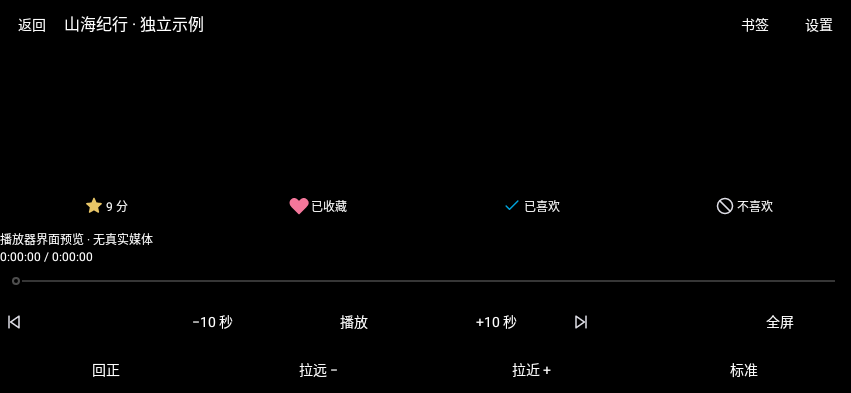
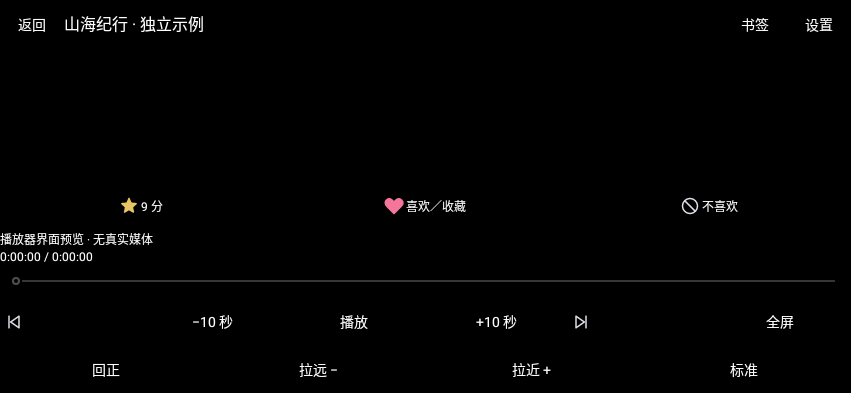
Unify likes with favorites as requested for 0.4.9

diff --git a/tests/test_player_personal.py b/tests/test_player_personal.py
@@ -14,13 +14,13 @@ def spin(app,seconds=.1):
     loop=QEventLoop();QTimer.singleShot(round(seconds*1000),loop.quit);loop.exec();app.processEvents()
 
 
-def test_flags_are_independent_exclusive_and_persistent(library):
+def test_likes_are_favorites_exclusive_and_persistent(library):
     work=add_work(library,'Preferences')
     library.update_personal(work,favorite=True,liked=True,rating=8)
     library.update_personal(work,disliked=True)
-    saved=library.work(work);assert saved['favorite']==1 and saved['liked']==0 and saved['disliked']==1 and saved['rating']==8
+    saved=library.work(work);assert saved['favorite']==0 and saved['liked']==0 and saved['disliked']==1 and saved['rating']==8
     library.update_personal(work,liked=True);assert library.work(work)['disliked']==0
-    library.update_personal(work,liked=False,rating=None);assert library.work(work)['favorite']==1
+    library.update_personal(work,liked=False,rating=None);assert library.work(work)['favorite']==0
     with pytest.raises(ValueError):library.update_personal(work,liked=True,disliked=True)
     other=Library(library.directory);assert other.work(work)['liked']==0 and other.work(work)['rating'] is None;other.close()
 
@@ -29,9 +29,9 @@ def test_old_database_and_old_backup_migrate_without_changing_original(tmp_path)
     folder=tmp_path/'old';lib=Library(folder);work=add_work(lib,'Old favorite');lib.update_personal(work,favorite=True,rating=7);lib.close()
     database=folder/'library.sqlite';db=sqlite3.connect(database);db.execute('ALTER TABLE works DROP COLUMN liked');db.commit();db.close()
     backup=tmp_path/'old-backup.sqlite';backup.write_bytes(database.read_bytes())
-    migrated=Library(folder);assert migrated.work(work)['favorite']==1 and migrated.work(work)['liked']==0
+    migrated=Library(folder);assert migrated.work(work)['favorite']==1 and migrated.work(work)['liked']==1
     migrated.update_personal(work,liked=True);restore_database(migrated,backup)
-    assert migrated.work(work)['rating']==7 and migrated.work(work)['liked']==0
+    assert migrated.work(work)['rating']==7 and migrated.work(work)['liked']==1
     original=sqlite3.connect(backup);assert 'liked' not in {row[1] for row in original.execute('PRAGMA table_info(works)')};original.close();migrated.close()
 
 
@@ -39,8 +39,8 @@ def test_playing_controls_save_without_restarting_video(qapp,library,video_facto
     source=video_factory('Player preferences.mp4','blue',10);library.import_folder(source.parent,'movie')
     file=library.query()[0]['files'][0];player=Player(library);player.open_file(file);spin(qapp,.7)
     session=player.session.id;assert player.media.playbackState()==QMediaPlayer.PlaybackState.PlayingState
-    player.like.click();player.positive.click();assert library.work(file['work_id'])['liked']==1
-    player.negative.click();work=library.work(file['work_id']);assert work['favorite']==1 and work['disliked']==1 and work['liked']==0
+    player.like.click();assert library.work(file['work_id'])['liked']==1
+    player.negative.click();work=library.work(file['work_id']);assert work['favorite']==0 and work['disliked']==1 and work['liked']==0
     def choose(value):
         def trigger():
             menu=QApplication.activePopupWidget();action=next(a for a in menu.actions() if a.text()==('清除评分' if value is None else f'{value} 分'));action.trigger();menu.close()
@@ -55,7 +55,21 @@ def test_failed_player_save_restores_buttons_and_success_clears_error(qapp,libra
     work=add_work(library,'Retry');player=Player(library);player.file=library.work(work)['files'][0];player.update_like(library.work(work))
     original=library.update_personal
     def fail(*args,**kwargs):raise ValueError('temporary database error')
-    monkeypatch.setattr(library,'update_personal',fail);player.positive.click()
-    assert library.work(work)['liked']==0 and not player.positive.isChecked() and '偏好未保存' in player.error.text()
-    monkeypatch.setattr(library,'update_personal',original);player.positive.click()
+    monkeypatch.setattr(library,'update_personal',fail);player.like.click()
+    assert library.work(work)['liked']==0 and not player.like.isChecked() and '偏好未保存' in player.error.text()
+    monkeypatch.setattr(library,'update_personal',original);player.like.click()
     assert library.work(work)['liked']==1 and '偏好未保存' not in player.error.text();player.close()
+
+
+def test_independent_legacy_preferences_merge_once_and_backup_stays_unchanged(tmp_path):
+    folder=tmp_path/'legacy';lib=Library(folder);positive=add_work(lib,'Legacy positive');negative=add_work(lib,'Legacy negative')
+    with lib.db:
+        lib.db.execute('UPDATE works SET favorite=0,liked=1,rating=8 WHERE id=?',(positive,))
+        lib.db.execute('UPDATE works SET favorite=1,liked=0,disliked=1 WHERE id=?',(negative,))
+        lib.db.execute("DELETE FROM settings WHERE key='personal_unified_v1'")
+    backup=tmp_path/'independent.sqlite';lib.backup(backup);lib.close()
+    lib=Library(folder);assert lib.work(positive)['favorite']==lib.work(positive)['liked']==1
+    assert lib.work(positive)['rating']==8 and lib.work(negative)['favorite']==0 and lib.work(negative)['disliked']==1
+    lib.update_personal(positive,favorite=False);lib.close();lib=Library(folder);assert lib.work(positive)['favorite']==0
+    restore_database(lib,backup);assert lib.work(positive)['favorite']==1 and lib.work(positive)['rating']==8
+    original=sqlite3.connect(backup);assert original.execute('SELECT favorite,liked FROM works WHERE id=?',(positive,)).fetchone()==(0,1);original.close();lib.close()

diff --git a/src/lumen/core.py b/src/lumen/core.py
@@ -209,6 +209,10 @@ class Library(CatalogActions):
         ''')
         if 'liked' not in {row['name'] for row in self.db.execute('PRAGMA table_info(works)')}:
             self.db.execute('ALTER TABLE works ADD COLUMN liked INTEGER NOT NULL DEFAULT 0 CHECK(liked IN (0,1))')
+        if not self.setting('personal_unified_v1',False):
+            with self.db:
+                self.db.execute('UPDATE works SET favorite=CASE WHEN disliked THEN 0 ELSE MAX(favorite,liked) END,liked=CASE WHEN disliked THEN 0 ELSE MAX(favorite,liked) END')
+                self.db.execute('INSERT OR REPLACE INTO settings VALUES (?,?)',('personal_unified_v1','true'))
         self.db.commit()
 
     def close(self):
@@ -228,6 +232,7 @@ class Library(CatalogActions):
             raise ValueError('媒体不存在')
         item = dict(row)
         item['metadata'] = actor_defaults(json.loads(item['metadata']), item['kind'])
+        item['liked'] = item['favorite']
         item['locked'] = json.loads(item['locked'])
         item['files'] = [dict(r) for r in self.db.execute('SELECT * FROM files WHERE work_id=? ORDER BY season,episode,path', (work_id,))]
         for file in item['files']:
@@ -243,10 +248,14 @@ class Library(CatalogActions):
             raise ValueError('无效个人字段')
         if 'rating' in fields and fields['rating'] is not None and (type(fields['rating']) is not int or not 1 <= fields['rating'] <= 10):
             raise ValueError('个人评分须为 1–10 整数或空')
-        if 'liked' in fields and type(fields['liked']) is not bool:raise ValueError('喜欢标记须为布尔值')
-        if fields.get('liked') and fields.get('disliked'):raise ValueError('喜欢与不喜欢不能同时选择')
-        if fields.get('liked'):fields['disliked']=False
-        elif fields.get('disliked'):fields['liked']=False
+        if 'liked' in fields:
+            if type(fields['liked']) is not bool:raise ValueError('喜欢标记须为布尔值')
+            if 'favorite' in fields and bool(fields['favorite'])!=fields['liked']:raise ValueError('喜欢与收藏是同一状态')
+            fields['favorite']=fields['liked']
+        if fields.get('favorite') and fields.get('disliked'):raise ValueError('喜欢 / 收藏与不喜欢不能同时选择')
+        if 'favorite' in fields:fields['liked']=bool(fields['favorite'])
+        if fields.get('favorite'):fields['disliked']=False
+        elif fields.get('disliked'):fields.update(favorite=False,liked=False)
         with self.db:
             self.db.execute('UPDATE works SET ' + ','.join(f'{key}=?' for key in fields) + ' WHERE id=?', (*fields.values(), work_id))
 
@@ -268,9 +277,9 @@ class Library(CatalogActions):
             self.db.execute('UPDATE sources SET work_id=? WHERE work_id=?', (target_id, source_id))
             self.db.execute('UPDATE works SET metadata=?,rating=?,favorite=?,watchlist=?,disliked=?,liked=?,discovered=?,thumbnail=? WHERE id=?',
                 (json.dumps(merged, ensure_ascii=False), target['rating'] if target['rating'] is not None else source['rating'],
-                 max(target['favorite'],source['favorite']),max(target['watchlist'],source['watchlist']),
-                 (target if target['liked'] or target['disliked'] else source)['disliked'],
-                 (target if target['liked'] or target['disliked'] else source)['liked'],
+                 (target if target['favorite'] or target['disliked'] else source)['favorite'],max(target['watchlist'],source['watchlist']),
+                 (target if target['favorite'] or target['disliked'] else source)['disliked'],
+                 (target if target['favorite'] or target['disliked'] else source)['favorite'],
                  min([d for d in [target['discovered'],source['discovered']] if d] or [None]),target['thumbnail'] or source['thumbnail'],target_id))
             self.db.execute('UPDATE name_keys SET work_id=? WHERE work_id=?', (target_id,source_id))
             self.db.execute('UPDATE external_ids SET work_id=? WHERE work_id=?', (target_id,source_id))
@@ -609,6 +618,7 @@ class Library(CatalogActions):
         for row in rows:
             item = dict(row)
             item['metadata'] = actor_defaults(json.loads(item['metadata']), item['kind'])
+            item['liked'] = item['favorite']
             item['locked'] = json.loads(item['locked'])
             item['files'] = files.get(item['id'], [])
             for file in item['files']:
@@ -721,7 +731,7 @@ class Library(CatalogActions):
         weights = Counter()
         for w in all_items:
             rating = (w['rating'] - 5.5) * 3 if w['rating'] is not None else 0
-            strength = rating + w.get('liked',0) * 6 + w['favorite'] * 4 + w['watchlist'] * 2 - w['disliked'] * 20 + min(w['watched'] / 3600, 1)
+            strength = rating + w['favorite'] * 4 + w['watchlist'] * 2 - w['disliked'] * 20 + min(w['watched'] / 3600, 1)
             features = ['标签:' + t for t in w['metadata'].get('tags', [])]
             features += ['演员:' + a['name'] for a in w['metadata'].get('actors', []) if a.get('gender') == 'female']
             for feature in set(features):

diff --git a/android/app/src/test/java/net/lumen/media/PlayerPersonalTest.java b/android/app/src/test/java/net/lumen/media/PlayerPersonalTest.java
@@ -34,12 +34,11 @@ public class PlayerPersonalTest {
         JSONObject canonical=new JSONObject("{\"favorite\":0,\"liked\":0,\"disliked\":0,\"rating\":null,\"watchlist\":0}");
         try(MockWebServer server=new MockWebServer();ActivityController<PlayerActivity> lifecycle=Robolectric.buildActivity(PlayerActivity.class).create()){
             server.setDispatcher(new Dispatcher(){public MockResponse dispatch(RecordedRequest request){try{
-                assertEquals("/api/works/7/personal",request.getPath());assertEquals("Bearer abcdefghijklmnopqrstuvwxyz123456",request.getHeader("Authorization"));JSONObject fields=new JSONObject(request.getBody().readUtf8());java.util.Iterator<String> keys=fields.keys();while(keys.hasNext()){String key=keys.next();Object value=fields.get(key);canonical.put(key,value instanceof Boolean?((Boolean)value?1:0):value);}if(fields.optBoolean("liked"))canonical.put("disliked",0);if(fields.optBoolean("disliked"))canonical.put("liked",0);
+                assertEquals("/api/works/7/personal",request.getPath());assertEquals("Bearer abcdefghijklmnopqrstuvwxyz123456",request.getHeader("Authorization"));JSONObject fields=new JSONObject(request.getBody().readUtf8());java.util.Iterator<String> keys=fields.keys();while(keys.hasNext()){String key=keys.next();Object value=fields.get(key);canonical.put(key,value instanceof Boolean?((Boolean)value?1:0):value);}if(fields.optBoolean("favorite")){canonical.put("disliked",0);canonical.put("liked",1);}if(fields.optBoolean("disliked")){canonical.put("liked",0);canonical.put("favorite",0);}
                 return new MockResponse().setBody(new JSONObject().put("ok",true).put("personal",canonical).toString());
             }catch(Exception e){return new MockResponse().setResponseCode(500);}}});server.start();PlayerActivity activity=lifecycle.get();JSONObject work=build(activity,server);Object file=get(activity,"file");
             ((Button)get(activity,"personalFavorite")).performClick();waitFor(()->work.optInt("favorite")==1);
-            ((Button)get(activity,"personalLiked")).performClick();waitFor(()->work.optInt("liked")==1);
-            ((Button)get(activity,"personalDisliked")).performClick();waitFor(()->work.optInt("disliked")==1);assertEquals(0,work.optInt("liked"));assertEquals(1,work.optInt("favorite"));
+            ((Button)get(activity,"personalDisliked")).performClick();waitFor(()->work.optInt("disliked")==1);assertEquals(0,work.optInt("liked"));assertEquals(0,work.optInt("favorite"));
             ((Button)get(activity,"personalRating")).performClick();AlertDialog score=org.robolectric.shadows.ShadowAlertDialog.getLatestAlertDialog();score.getListView().performItemClick(null,9,9);waitFor(()->work.optInt("rating")==9);
             ((Button)get(activity,"personalRating")).performClick();score=org.robolectric.shadows.ShadowAlertDialog.getLatestAlertDialog();score.getListView().performItemClick(null,0,0);waitFor(()->work.isNull("rating"));
             assertSame(file,get(activity,"file"));assertEquals("keep-session",get(activity,"session"));assertEquals(45000L,get(activity,"resumeMs"));assertNull(get(activity,"player"));
@@ -54,7 +53,7 @@ public class PlayerPersonalTest {
         CountDownLatch entered=new CountDownLatch(1),release=new CountDownLatch(1);
         try(MockWebServer server=new MockWebServer();ActivityController<PlayerActivity> lifecycle=Robolectric.buildActivity(PlayerActivity.class).create()){
             server.setDispatcher(new Dispatcher(){public MockResponse dispatch(RecordedRequest request){assertEquals("/api/works/7/personal",request.getPath());entered.countDown();try{release.await(4,TimeUnit.SECONDS);}catch(InterruptedException e){Thread.currentThread().interrupt();}return new MockResponse().setBody("{\"ok\":true,\"personal\":{\"favorite\":1,\"liked\":0,\"disliked\":0,\"rating\":null,\"watchlist\":0}}");}});server.start();PlayerActivity activity=lifecycle.get();JSONObject old=build(activity,server);((Button)get(activity,"personalFavorite")).performClick();assertTrue(entered.await(3,TimeUnit.SECONDS));
-            JSONObject next=new JSONObject().put("id",8).put("title","Next").put("favorite",0);put(activity,"work",next);put(activity,"file",new JSONObject().put("id",80));call(activity,"refreshPersonal");release.countDown();waitFor(()->old.optInt("favorite")==1);assertEquals(0,next.optInt("favorite"));assertEquals("收藏",((Button)get(activity,"personalFavorite")).getText().toString());
+            JSONObject next=new JSONObject().put("id",8).put("title","Next").put("favorite",0);put(activity,"work",next);put(activity,"file",new JSONObject().put("id",80));call(activity,"refreshPersonal");release.countDown();waitFor(()->old.optInt("favorite")==1);assertEquals(0,next.optInt("favorite"));assertEquals("喜欢／收藏",((Button)get(activity,"personalFavorite")).getText().toString());
         }finally{release.countDown();}
     }
 }

diff --git a/android/app/src/main/java/net/lumen/media/PlayerActivity.java b/android/app/src/main/java/net/lumen/media/PlayerActivity.java
@@ -59,7 +59,7 @@ public final class PlayerActivity extends Activity {
     private SeekBar seek;
     private TextView time;
     private Button pause,previousVideo,nextVideo;
-    private Button personalRating,personalFavorite,personalLiked,personalDisliked;
+    private Button personalRating,personalFavorite,personalDisliked;
     private boolean personalDialogOpen=false;
     private final java.util.Set<Long> personalPending=new java.util.HashSet<>();
     private boolean navigationPending=false;
@@ -163,8 +163,8 @@ public final class PlayerActivity extends Activity {
         bottomBar=new LinearLayout(this);bottomBar.setOrientation(LinearLayout.VERTICAL);bottomBar.setBackground(shade(false));
         LinearLayout personal=new LinearLayout(this);
         personalRating=button("评分",this::choosePersonalRating);personalRating.setContentDescription("我的评分");
-        personalFavorite=button("收藏",()->togglePersonal("favorite"));personalLiked=button("喜欢",()->togglePersonal("liked"));personalDisliked=button("不喜欢",()->togglePersonal("disliked"));
-        for(Button action:new Button[]{personalRating,personalFavorite,personalLiked,personalDisliked}){action.setTextSize(12);action.setPadding(dp(4),0,dp(4),0);action.setMinWidth(0);action.setMinimumWidth(0);action.setCompoundDrawablePadding(dp(2));action.addOnLayoutChangeListener((v,l,t,r,b,ol,ot,or,ob)->centerPersonalAction(action));personal.addView(action,new LinearLayout.LayoutParams(0,dp(48),1));}bottomBar.addView(personal);refreshPersonal();
+        personalFavorite=button("喜欢／收藏",()->togglePersonal("favorite"));personalDisliked=button("不喜欢",()->togglePersonal("disliked"));
+        for(Button action:new Button[]{personalRating,personalFavorite,personalDisliked}){action.setTextSize(12);action.setPadding(dp(4),0,dp(4),0);action.setMinWidth(0);action.setMinimumWidth(0);action.setCompoundDrawablePadding(dp(2));action.addOnLayoutChangeListener((v,l,t,r,b,ol,ot,or,ob)->centerPersonalAction(action));personal.addView(action,new LinearLayout.LayoutParams(0,dp(48),1));}bottomBar.addView(personal);refreshPersonal();
         status=label("正在连接视频…",12);status.setMaxLines(1);status.setEllipsize(TextUtils.TruncateAt.END);bottomBar.addView(status);
         time=label("0:00:00 / 0:00:00",12);bottomBar.addView(time);
         seek=new SeekBar(this);seek.setMax(10000);seek.setContentDescription("播放进度");
@@ -269,15 +269,14 @@ public final class PlayerActivity extends Activity {
         if(personalRating==null)return;
         boolean available=work!=null&&file!=null;
         boolean enabled=available&&!personalPending.contains(work.optLong("id"));
-        for(Button control:new Button[]{personalRating,personalFavorite,personalLiked,personalDisliked})control.setEnabled(enabled);
+        for(Button control:new Button[]{personalRating,personalFavorite,personalDisliked})control.setEnabled(enabled);
         if(!available)return;
         personalRating.setText(work.isNull("rating")?"评分":work.optInt("rating")+" 分");MediaStyle.icon(personalRating,"star",!work.isNull("rating"));
-        personalFavorite.setText(work.optInt("favorite")==1?"已收藏":"收藏");MediaStyle.icon(personalFavorite,"heart",work.optInt("favorite")==1);
-        personalLiked.setText(work.optInt("liked")==1?"已喜欢":"喜欢");MediaStyle.icon(personalLiked,"check",work.optInt("liked")==1);
+        personalFavorite.setText("喜欢／收藏");MediaStyle.icon(personalFavorite,"heart",work.optInt("favorite")==1);
         personalDisliked.setText("不喜欢");MediaStyle.icon(personalDisliked,"ban",work.optInt("disliked")==1);
-        for(Button control:new Button[]{personalRating,personalFavorite,personalLiked,personalDisliked}){control.setCompoundDrawablePadding(dp(2));centerPersonalAction(control);}
-        personalFavorite.setSelected(work.optInt("favorite")==1);personalLiked.setSelected(work.optInt("liked")==1);personalDisliked.setSelected(work.optInt("disliked")==1);
-        personalFavorite.setContentDescription(work.optInt("favorite")==1?"取消收藏":"收藏");personalLiked.setContentDescription(work.optInt("liked")==1?"取消喜欢":"喜欢");personalDisliked.setContentDescription(work.optInt("disliked")==1?"取消不喜欢":"不喜欢");
+        for(Button control:new Button[]{personalRating,personalFavorite,personalDisliked}){control.setCompoundDrawablePadding(dp(2));centerPersonalAction(control);}
+        personalFavorite.setSelected(work.optInt("favorite")==1);personalDisliked.setSelected(work.optInt("disliked")==1);
+        personalFavorite.setContentDescription(work.optInt("favorite")==1?"取消喜欢 / 收藏":"喜欢 / 收藏");personalDisliked.setContentDescription(work.optInt("disliked")==1?"取消不喜欢":"不喜欢");
     }
     private void togglePersonal(String field){
         if(work==null||file==null)return;

diff --git a/src/lumen/player.py b/src/lumen/player.py
@@ -148,11 +148,10 @@ class Player(QDialog):
         personal_row=QHBoxLayout()
         self.personal_rating=QPushButton();self.personal_rating.setObjectName('playerRating');self.personal_rating.setAccessibleName('我的评分');self.personal_rating.clicked.connect(self.choose_personal_rating)
         personal_row.addWidget(self.personal_rating)
-        self.like=QPushButton();self.like.setObjectName('playerFavorite');self.like.setCheckable(True);self.like.setAccessibleName('收藏');self.like.clicked.connect(self.toggle_like);personal_row.addWidget(self.like)
-        self.positive=QPushButton();self.positive.setObjectName('playerLiked');self.positive.setCheckable(True);self.positive.setAccessibleName('喜欢');self.positive.clicked.connect(lambda:self.save_personal({'liked':self.positive.isChecked()}));personal_row.addWidget(self.positive)
+        self.like=QPushButton();self.like.setObjectName('playerFavorite');self.like.setCheckable(True);self.like.setAccessibleName('喜欢 / 收藏');self.like.clicked.connect(self.toggle_like);personal_row.addWidget(self.like)
         self.negative=QPushButton();self.negative.setObjectName('playerDisliked');self.negative.setCheckable(True);self.negative.setAccessibleName('不喜欢');self.negative.clicked.connect(lambda:self.save_personal({'disliked':self.negative.isChecked()}));personal_row.addWidget(self.negative)
         personal_row.addStretch();bottom.insertLayout(0,personal_row)
-        for action_button in [self.personal_rating,self.like,self.positive,self.negative]:action_button.setEnabled(False)
+        for action_button in [self.personal_rating,self.like,self.negative]:action_button.setEnabled(False)
         self.mute = control(QStyle.StandardPixmap.SP_MediaVolume, '静音 / 恢复音量', self.toggle_mute)
         volume = self.volume = QSlider(Qt.Orientation.Horizontal)
         volume.setRange(0, 100)
@@ -391,11 +390,11 @@ class Player(QDialog):
 
     def update_like(self, work):
         from .components import icon
-        for control,key,name,color in [(self.like,'favorite','heart','#f4779b'),(self.positive,'liked','check','#65d3ed'),(self.negative,'disliked','ban','#ef8b87')]:
+        for control,key,name,color in [(self.like,'favorite','heart','#f4779b'),(self.negative,'disliked','ban','#ef8b87')]:
             active=bool(work.get(key));control.setChecked(active);control.setEnabled(True)
-            text={'favorite':('已收藏','收藏'),'liked':('已喜欢','喜欢'),'disliked':('不喜欢','不喜欢')}[key][0 if active else 1]
+            text={'favorite':('喜欢／收藏','喜欢／收藏'),'liked':('已喜欢','喜欢'),'disliked':('不喜欢','不喜欢')}[key][0 if active else 1]
             control.setText(text);control.setIcon(icon(name,color if active else '#dddddd',active and name=='heart'))
-            control.setToolTip(('取消' if active else '确认')+{'favorite':'收藏','liked':'喜欢','disliked':'不喜欢'}[key]);control.setStyleSheet('color: '+(color if active else '#eeeeee'))
+            control.setToolTip(('取消' if active else '确认')+{'favorite':'喜欢 / 收藏','liked':'喜欢','disliked':'不喜欢'}[key]);control.setStyleSheet('color: '+(color if active else '#eeeeee'))
         self.personal_rating.setEnabled(True);self.personal_rating.setText(f"我的 {work['rating']} 分" if work.get('rating') is not None else '评分')
         self.personal_rating.setIcon(icon('star','#e7c567',work.get('rating') is not None))
         source=next((s for s in work.get('sources',[]) if s.get('rating') is not None),None)
@@ -441,7 +440,7 @@ class Player(QDialog):
         self.finish()
         if not Path(file['path']).is_file():
             self.file=None
-            for action_button in [self.personal_rating,self.like,self.positive,self.negative]:action_button.setEnabled(False)
+            for action_button in [self.personal_rating,self.like,self.negative]:action_button.setEnabled(False)
             self.title.setText('视频文件离线');self.caption.clear();self.caption.hide()
             self.set_error('文件不存在，请检查磁盘或重新导入：' + file['path'])
             self.show()

diff --git a/android/app/src/test/java/net/lumen/media/PlayerPersonalPreviewTest.java b/android/app/src/test/java/net/lumen/media/PlayerPersonalPreviewTest.java
@@ -22,21 +22,19 @@ import static org.junit.Assert.*;
 public class PlayerPersonalPreviewTest {
     private Field field(String name)throws Exception{Field field=PlayerActivity.class.getDeclaredField(name);field.setAccessible(true);return field;}
     @Test public void playerActionsRenderInPortraitAndLandscapeVr()throws Exception{
-        try(ActivityController<PlayerActivity> lifecycle=Robolectric.buildActivity(PlayerActivity.class).create()){
+        for(int index=0;index<2;index++)try(ActivityController<PlayerActivity> lifecycle=Robolectric.buildActivity(PlayerActivity.class).create()){
             PlayerActivity activity=lifecycle.get();Method build=PlayerActivity.class.getDeclaredMethod("buildPlayerUi",android.content.SharedPreferences.class);build.setAccessible(true);build.invoke(activity,activity.getSharedPreferences("playback",0));
             field("work").set(activity,new JSONObject("{\"id\":1,\"title\":\"山海纪行 · 独立示例\",\"favorite\":1,\"liked\":1,\"disliked\":0,\"rating\":9}"));field("file").set(activity,new JSONObject().put("id",10));
             Method refresh=PlayerActivity.class.getDeclaredMethod("refreshPersonal");refresh.setAccessible(true);refresh.invoke(activity);
             ((android.widget.TextView)field("title").get(activity)).setText("山海纪行 · 独立示例");
             ((android.widget.TextView)field("status").get(activity)).setText("播放器界面预览 · 无真实媒体");
             View root=(View)field("root").get(activity);
-            for(int index=0;index<2;index++){
                 ((View)field("vrBar").get(activity)).setVisibility(index==1?View.VISIBLE:View.GONE);
                 int width=index==0?393:851,height=index==0?851:393;
                 for(int pass=0;pass<3;pass++){root.measure(View.MeasureSpec.makeMeasureSpec(width,View.MeasureSpec.EXACTLY),View.MeasureSpec.makeMeasureSpec(height,View.MeasureSpec.EXACTLY));root.layout(0,0,width,height);}
-                assertTrue(((Button)field("personalFavorite").get(activity)).isSelected());assertTrue(((Button)field("personalLiked").get(activity)).isSelected());assertEquals("9 分",((Button)field("personalRating").get(activity)).getText().toString());
+                assertTrue(((Button)field("personalFavorite").get(activity)).isSelected());assertEquals("9 分",((Button)field("personalRating").get(activity)).getText().toString());
                 String directory=System.getenv("LUMEN_UI_SCREENSHOTS");if(directory==null)continue;
                 Bitmap image=Bitmap.createBitmap(width,height,Bitmap.Config.ARGB_8888);Canvas canvas=new Canvas(image);canvas.drawColor(0xff000000);root.draw(canvas);File output=new File(directory,index==0?"player-personal-android.png":"player-personal-android-vr.png");assertTrue(output.getParentFile().isDirectory()||output.getParentFile().mkdirs());try(FileOutputStream stream=new FileOutputStream(output)){assertTrue(image.compress(Bitmap.CompressFormat.PNG,100,stream));}image.recycle();
-            }
         }
     }
 }

diff --git a/src/lumen/ui.py b/src/lumen/ui.py
@@ -524,7 +524,6 @@ class Details(QWidget):
         self.management_menu.addAction('加入播放队列',lambda:window.library.edit_queue([*window.library.setting('queue',{'ids':[]})['ids'],work_id]))
         self.management_menu.addAction('仅移出媒体库…',lambda:window.remove_catalog_work(work_id))
         if w['kind']!='other':self.management_menu.addAction('合并重复作品…',self.merge_duplicate)
-        self.liked_action=self.management_menu.addAction('喜欢');self.liked_action.setCheckable(True);self.liked_action.setChecked(bool(w.get('liked')));self.liked_action.triggered.connect(lambda value:self.personal(liked=value))
         self.dislike_action=self.management_menu.addAction(icon('ban'),'不感兴趣');self.dislike_action.setCheckable(True);self.dislike_action.setChecked(bool(w['disliked']));self.dislike_action.triggered.connect(lambda value:self.personal(disliked=value))
         more.setMenu(self.management_menu);actions.addWidget(more);actions.addStretch();info.addLayout(actions)
         def links(values,field):
@@ -838,7 +837,7 @@ class Details(QWidget):
         self.favorite_action.setChecked(bool(self.work['favorite']));self.favorite_action.setText('已收藏' if self.work['favorite'] else '收藏')
         self.watchlist_action.setChecked(bool(self.work['watchlist']));self.watchlist_action.setText('已想看' if self.work['watchlist'] else '想看')
         self.rating_action.setText(f"{self.work['rating']} 分" if self.work['rating'] else '评分')
-        self.liked_action.setChecked(bool(self.work.get('liked')));self.dislike_action.setChecked(bool(self.work['disliked']))
+        self.dislike_action.setChecked(bool(self.work['disliked']))
 
     def personal(self, **fields):
         try:self.library.update_personal(self.work_id,**fields)

diff --git a/src/lumen/catalog.py b/src/lumen/catalog.py
@@ -62,7 +62,8 @@ class CatalogActions:
             for w in works:
                 if action in {'favorite','watchlist'}:
                     if type(value) is not bool:raise ValueError('标记须为布尔值')
-                    self.db.execute(f'UPDATE works SET {action}=? WHERE id=?',(value,w['id']))
+                    if action=='favorite':self.db.execute('UPDATE works SET favorite=?,liked=?,disliked=CASE WHEN ? THEN 0 ELSE disliked END WHERE id=?',(value,value,value,w['id']))
+                    else:self.db.execute('UPDATE works SET watchlist=? WHERE id=?',(value,w['id']))
                 elif action=='tags':
                     metadata=w['metadata'];metadata['tags']=list(dict.fromkeys([*metadata.get('tags',[]),*value]))
                     self.db.execute('UPDATE works SET metadata=? WHERE id=?',(json.dumps(metadata,ensure_ascii=False),w['id']))

diff --git a/src/lumen/backup.py b/src/lumen/backup.py
@@ -20,7 +20,8 @@ def restore_database(library, path):
         migrate_liked=actual.get('works')==legacy_works and legacy_works!=expected['works']
         if set(actual)-set(expected) or missing-{'bookmarks','playback_preferences'} or any(actual[name]!=expected[name] and not (name=='works' and migrate_liked) for name in actual):
             raise ValueError('备份格式或版本不兼容')
-        if missing or migrate_liked:
+        migrate_unified=not source.execute("SELECT 1 FROM settings WHERE key='personal_unified_v1'").fetchone()
+        if missing or migrate_liked or migrate_unified:
             # Migrate a copy; a user's original backup always remains unchanged.
             staging=tempfile.TemporaryDirectory(prefix='lumen-restore-')
             staged=Path(staging.name)/'library.sqlite'

diff --git a/tests/test_server.py b/tests/test_server.py
@@ -184,7 +184,7 @@ def test_playback_personal_api_returns_canonical_exclusive_flags(lan,library):
     client,_,_,_=lan;work=library.query()[0]['id'];path=f'/api/works/{work}/personal'
     assert client.post(path,json={'favorite':True,'liked':True,'rating':10}).json()['personal']['liked']==1
     state=client.post(path,json={'disliked':True}).json()['personal']
-    assert state['disliked']==1 and state['liked']==0 and state['favorite']==1 and state['rating']==10
+    assert state['disliked']==1 and state['liked']==0 and state['favorite']==0 and state['rating']==10
     assert client.post(path,json={'liked':True,'disliked':True}).status_code==400
     assert client.post(path,json={'liked':'true'}).status_code==400
     assert client.post(path,json={'rating':None}).json()['personal']['rating'] is None

diff --git a/tests/test_ui.py b/tests/test_ui.py
@@ -137,7 +137,7 @@ def test_cover_modes_ratings_and_player_like_persist(qapp,tmp_path,video_factory
     window.player.open_file(data['files'][0]);spin(qapp,300)
     QTest.mouseClick(window.player.like,Qt.MouseButton.LeftButton)
     assert window.library.work(data['id'])['favorite']==1
-    assert window.player.like.text()=='已收藏' and window.player.like.isChecked() and not window.player.like.icon().isNull()
+    assert window.player.like.text()=='喜欢／收藏' and window.player.like.isChecked() and not window.player.like.icon().isNull()
     assert window.cards.item(0).data(Qt.ItemDataRole.UserRole)['favorite']==1
     window.player.show_settings();qapp.processEvents()
     assert window.player.track_dialog.isVisible()

diff --git a/src/lumen/__init__.py b/src/lumen/__init__.py
@@ -1,2 +1,2 @@
 """Lumen personal media library."""
-__version__ = "0.4.8"
+__version__ = "0.4.9"
